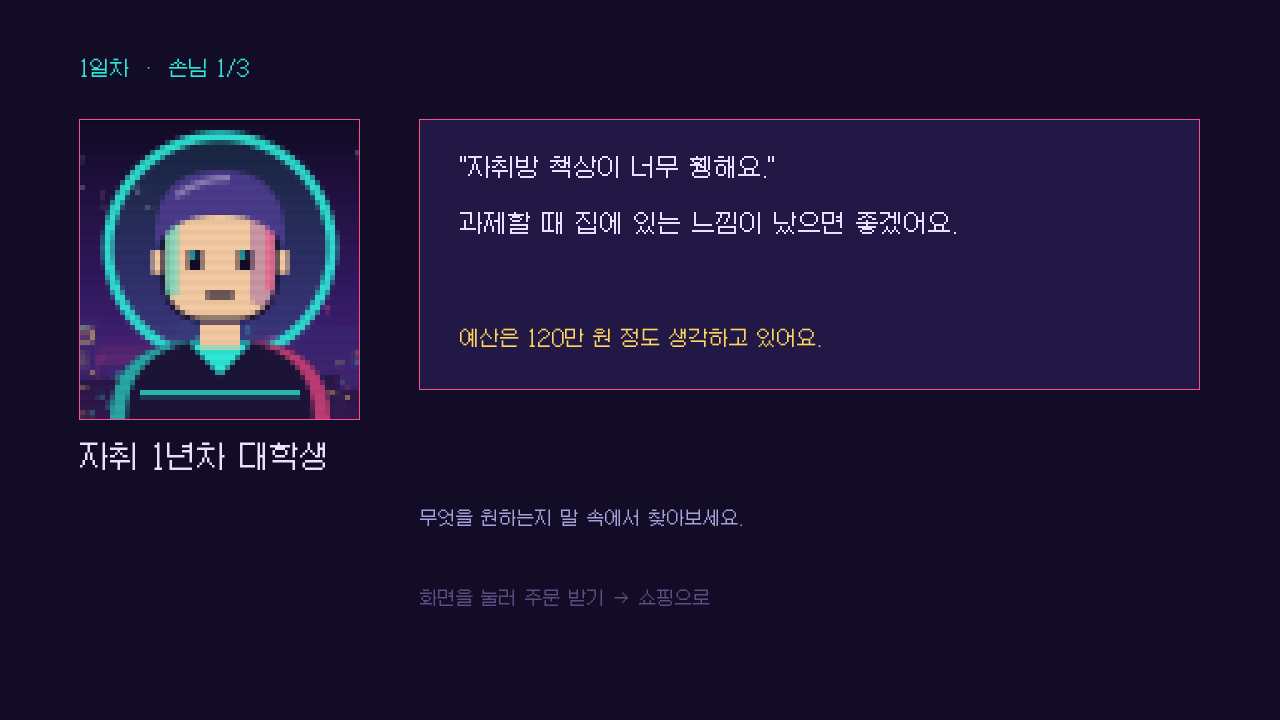
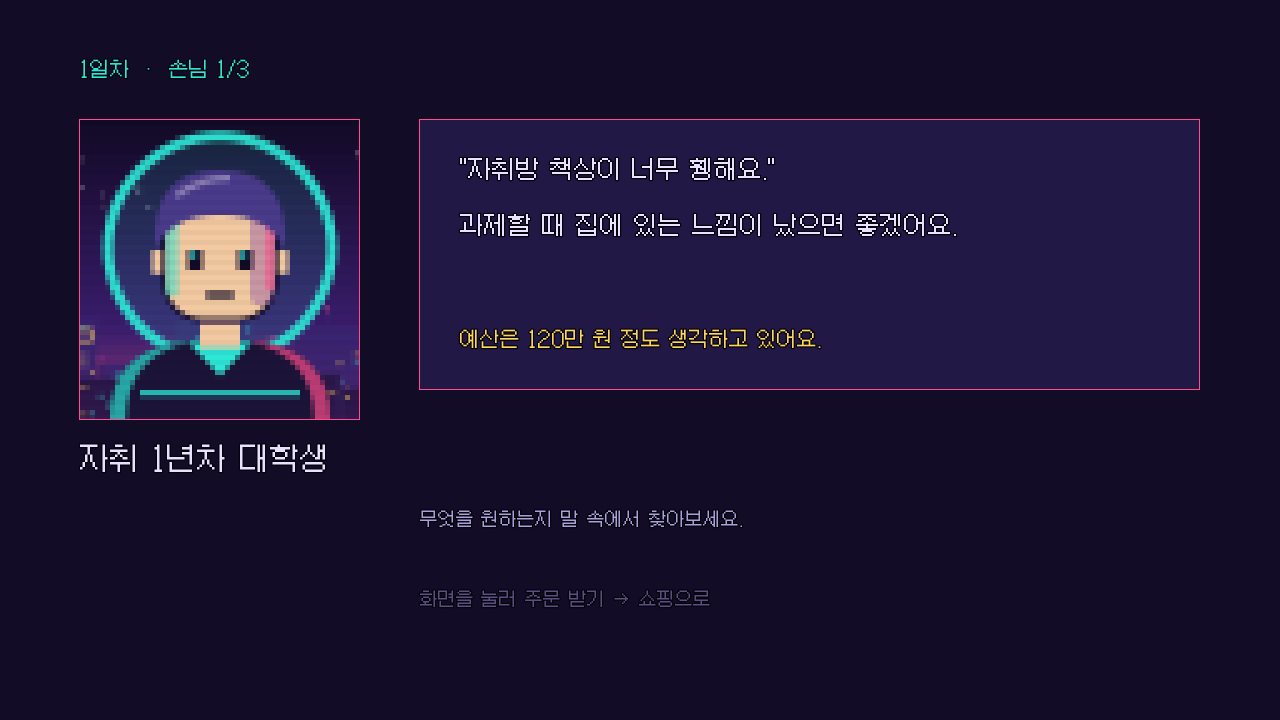
Godot: 최소 글씨 16px, 픽셀 UI 부품(테두리 판·두께 버튼·파인 칸, 검은 글씨 외곽선) — 쇼핑 화면 시범 적용
Claude-Session: https://claude.ai/code/session_015NHYVVgyeSAxKGZr8LT6gF

diff --git a/tools/make_ui_kit.py b/tools/make_ui_kit.py
@@ -1,0 +1,67 @@
+"""픽셀 UI 부품 (Skul · Dead Cells 느낌): 모서리를 깎은 두꺼운 테두리 판 · 두께 있는 버튼 · 안으로 파인 칸.
+16x16 픽셀로 그리고 3배로 키운다 (Godot에서 9-slice, 테두리 12px).  실행: python tools/make_ui_kit.py"""
+from PIL import Image
+
+S = 16
+SCALE = 3
+INK = (5, 3, 12, 255)
+
+
+def depth(x, y, cut):
+    """테두리에서 몇 칸 안쪽인지 (모서리는 cut만큼 깎임). 음수면 바깥."""
+    e = [x, y, S - 1 - x, S - 1 - y]
+    return min(*e, x + y - cut, S - 1 - x + y - cut, x + S - 1 - y - cut, 2 * S - 2 - x - y - cut)
+
+
+def lit(x, y):
+    """빛이 왼쪽 위에서 온다: 왼쪽 · 위 테두리가 밝다."""
+    return x + y < S - 1
+
+
+def make(name, cut, paint):
+    img = Image.new("RGBA", (S, S), (0, 0, 0, 0))
+    for y in range(S):
+        for x in range(S):
+            d = depth(x, y, cut)
+            if d >= 0:
+                img.putpixel((x, y), INK if d == 0 else paint(x, y, d))
+    img.resize((S * SCALE, S * SCALE), Image.NEAREST).save(f"resource/{name}.png")
+
+
+def panel(light, dark, fill):
+    def paint(x, y, d):
+        if d == 1:
+            return light if lit(x, y) else dark
+        if d == 2:
+            return (11, 7, 24, 255)
+        if x % 4 == 0 and y % 4 == 2:  # 바닥 질감 (도트)
+            return tuple(min(255, c + 9) for c in fill[:3]) + (255,)
+        return fill
+    return paint
+
+
+def button(x, y, d):
+    """흰 바탕: Godot에서 색을 곱해 쓴다. 아래 3줄이 버튼 두께."""
+    from_bottom = S - 1 - y
+    if from_bottom <= 2:
+        return (110, 110, 110, 255) if from_bottom else (80, 80, 80, 255)
+    if y <= 2:
+        return (255, 255, 255, 255)
+    if x <= 1:
+        return (240, 240, 240, 255)
+    if x >= S - 2:
+        return (175, 175, 175, 255)
+    return (215, 215, 215, 255)
+
+
+def slot(x, y, d):
+    if d == 1:
+        return (8, 5, 18, 255) if lit(x, y) else (58, 45, 110, 255)
+    return (20, 14, 42, 255)
+
+
+make("ui_panel", 2, panel((106, 86, 184, 255), (51, 38, 106, 255), (29, 21, 56, 255)))
+make("ui_panel_pink", 2, panel((255, 77, 141, 255), (140, 34, 82, 255), (34, 20, 52, 255)))
+make("ui_button", 1, button)
+make("ui_slot", 1, slot)
+print("ui kit ok")
